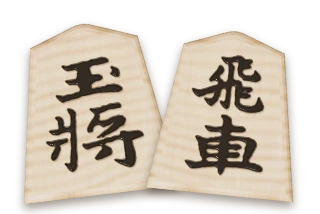
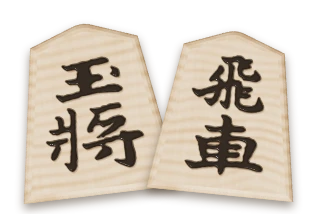
将棋：錦旗の虎杢を駒ごとに違う模様に
Claude-Session: https://claude.ai/code/session_01EiWRAWkt5MAmKBWnejkQvZ

diff --git a/atlas/models/shogi.js b/atlas/models/shogi.js
@@ -91,7 +91,9 @@
         // 虎杢 (tiger figure; the 錦旗 set, 2026-11-12, the user's photo of a real set): soft bands across the grain, uneven in
         // width and strength, wavering and fading in places — a silky light/dark shimmer over the fine straight grain
         if (tora) {
-          const wv = v * 13 + (N(u * 1.3, v * 1.1, 2) - .5) * 2.2 + Math.sin(u * 5 + N(v * 2, u, 1) * 4) * .22;
+          // (each piece its own figure: the bands' spacing, slope and waver come from the seed too)
+          const sh = k => { const x = Math.sin(seed * 12.9898 + k * 78.233) * 43758.5453; return x - Math.floor(x); };
+          const wv = v * (10.5 + sh(1) * 6) + (u - .5) * (sh(2) - .5) * 2.4 + sh(3) * 7 + (N(u * 1.3, v * 1.1, 2) - .5) * (1.6 + sh(4) * 1.6) + Math.sin(u * (4 + sh(5) * 3) + N(v * 2, u, 1) * 4) * .22;
           const k = Math.floor(wv), f = wv - k, hs = Math.sin(k * 127.1 + seed * 3.7) * 43758.5453, r = hs - Math.floor(hs);
           const band = Math.pow(.5 - .5 * Math.cos(f * 6.2832), 1.6) * (.35 + r * .65);
           const fade = .45 + .55 * N(u * 2.4 + 9, v * 3.1, 2);
@@ -105,7 +107,7 @@
       // a face from the inscription sheet: gd = the glyph's RGBA (alpha = lacquer, the grey layers = its height)
       glyphFace(d, W, H, p) {
         const gd = p.gd, type = p.type, kind = p.kind, red = type > 8;
-        if (kind === 'map') tsuge(d, W, H, 11 + type, p.tora); else for (let i = 3; i < d.length; i += 4) d[i] = 255;   // (else: opaque black)
+        if (kind === 'map') tsuge(d, W, H, p.seed || 11 + type, p.tora); else for (let i = 3; i < d.length; i += 4) d[i] = 255;   // (else: opaque black)
         // a soft shadow under the raised lacquer (map only)
         if (kind === 'map') for (let y = H - 1; y >= 3; y--) for (let x = W - 1; x >= 2; x--) { const j = ((y - 3) * W + (x - 2)) * 4 + 3, a = gd[j] / 255 * .28, i = (y * W + x) * 4; if (a) { d[i] *= 1 - a; d[i + 1] *= 1 - a; d[i + 2] *= 1 - a; } }
         for (let i = 0; i < W * H; i++) {
@@ -157,10 +159,11 @@
 
   const FRONT = ['', '歩兵', '香車', '桂馬', '銀将', '角行', '飛車', '金将', '玉将', 'と金', '成香', '成桂', '成銀', '龍馬', '龍王'];
   // face: wood + lacquer characters; rough: glossy where lacquered; bump: raised, rounded strokes
-  function faceTex(type, kingOu, kind, set = 'moriage') {
+  function faceTex(type, kingOu, kind, set = 'moriage', vr = 0) {
+    if (kind !== 'map') vr = 0;   // (the variants differ in the wood only)
     const G = (GLY[set] || GLYPHS)['k' + type + (kingOu ? 'o' : '')];
-    const key = `shf-${set === 'moriage' ? '' : set + '-'}${TORA[set] ? 'tora-' : ''}${type}${kingOu ? 'o' : ''}-${kind}-${G ? 'g' : fontOK ? 1 : 0}`;
-    if (G) return canvasTex(key, 256, 296, (c, W, H) => { paint(c.canvas, 'glyphFace', { gd: G.__gd || (G.__gd = G.getContext('2d').getImageData(0, 0, W, H).data), type, kind, tora: TORA[set] }); });   // (read once per glyph)
+    const key = `shf-${set === 'moriage' ? '' : set + '-'}${TORA[set] ? 'tora' + vr + '-' : ''}${type}${kingOu ? 'o' : ''}-${kind}-${G ? 'g' : fontOK ? 1 : 0}`;
+    if (G) return canvasTex(key, 256, 296, (c, W, H) => { paint(c.canvas, 'glyphFace', { gd: G.__gd || (G.__gd = G.getContext('2d').getImageData(0, 0, W, H).data), type, kind, tora: TORA[set], seed: 11 + type + vr * 17 }); });   // (read once per glyph)
     return canvasTex(key, 256, 296, (c0, W, H) => {
       const txt = type === 8 && kingOu ? '王将' : FRONT[type], red = type > 8;
       const ink = c => {
@@ -370,25 +373,29 @@
   }
   const matCache = {};
   let sideM = null, sideT = null;
-  function pieceMats(type, ou, set = 'moriage') {
-    const key = set + ':' + type + (ou ? 'o' : '');
+  function pieceMats(type, ou, set = 'moriage', vr = 0) {
+    const key = set + ':' + type + (ou ? 'o' : '') + (vr ? '#' + vr : '');
     if (matCache[key]) return matCache[key];
     if (set !== 'moriage') glyphsOf(set);
     const TT = T();
-    const face = new TT.MeshPhysicalMaterial({ map: faceTex(type, ou, 'map', set), roughnessMap: faceTex(type, ou, 'rough', set), bumpMap: faceTex(type, ou, 'bump', set), bumpScale: .032, roughness: 1, clearcoat: .55, clearcoatRoughness: .28 });
+    const face = new TT.MeshPhysicalMaterial({ map: faceTex(type, ou, 'map', set, vr), roughnessMap: faceTex(type, ou, 'rough', set), bumpMap: faceTex(type, ou, 'bump', set), bumpScale: .032, roughness: 1, clearcoat: .55, clearcoatRoughness: .28 });
     const side = TORA[set] ? (sideT || (sideT = M({ map: X.canvasTex('tsugeSideTora', 128, 128, (c, W, H) => tsuge(c, W, H, 3, null, 1)), roughness: .5, bumpScale: .002 })))
       : sideM || (sideM = M({ map: X.canvasTex('tsugeSide', 128, 128, (c, W, H) => tsuge(c, W, H, 3)), roughness: .5, bumpScale: .002 }));
     return (matCache[key] = [face, side]);
   }
   function upgrade(set) {   // the faces made before the set's glyphs arrived
-    for (const key in matCache) { const [st, rest] = key.split(':'); if (st !== set) continue; const ou = rest.endsWith('o'), type = parseInt(rest, 10), f = matCache[key][0];
+    for (const key in matCache) { const [st, rest0] = key.split(':'); if (st !== set) continue; const [rest, vr = 0] = rest0.split('#'), ou = rest.endsWith('o'), type = parseInt(rest, 10), f = matCache[key][0];
       if (!(GLY[set] || {})['k' + type + (ou ? 'o' : '')]) continue;
-      f.map = faceTex(type, ou, 'map', set); f.roughnessMap = faceTex(type, ou, 'rough', set); f.bumpMap = faceTex(type, ou, 'bump', set); f.needsUpdate = true; }
+      f.map = faceTex(type, ou, 'map', set, +vr); f.roughnessMap = faceTex(type, ou, 'rough', set); f.bumpMap = faceTex(type, ou, 'bump', set); f.needsUpdate = true; }
     if (X.kick) X.kick(300);
   }
   glyphsReady.then(() => upgrade('moriage'));
+  // 虎杢 (2026-11-12, the user: each piece its own figure): the pieces of one kind take turns through a few variants of the wood
+  // (6 for 歩, 4 for the others — materials stay shared, so the pieces still batch)
+  const vrN = {};
   function piece(type, gote, ou, set = curSet()) {
-    const m = new (T().Mesh)(pieceGeo(SIZE[type] || 1), pieceMats(type, ou, set));
+    const vr = TORA[set] ? (vrN[type] = ((vrN[type] || 0) + 1)) % (type === 1 ? 6 : 4) : 0;
+    const m = new (T().Mesh)(pieceGeo(SIZE[type] || 1), pieceMats(type, ou, set, vr));
     m.castShadow = true; m.receiveShadow = true;
     const g = new (T().Group)(); g.add(m); if (gote) g.rotation.y = Math.PI;
     g.userData.type = type; return g;

diff --git a/atlas/index.html b/atlas/index.html
@@ -2078,7 +2078,7 @@ window.AtlasRgdTimer = function (btn, ms, alive) {
   }, 60);
 };</script>
 <script src="../shared/tapword.js?v=1"></script>
-<script src="lazy.js?v=104"></script>
+<script src="lazy.js?v=105"></script>
 <script src="puzzle-lines.js?v=1"></script>
 <script src="puzzles.js?v=13"></script>
 <script src="lessons3d.js?v=9"></script>
